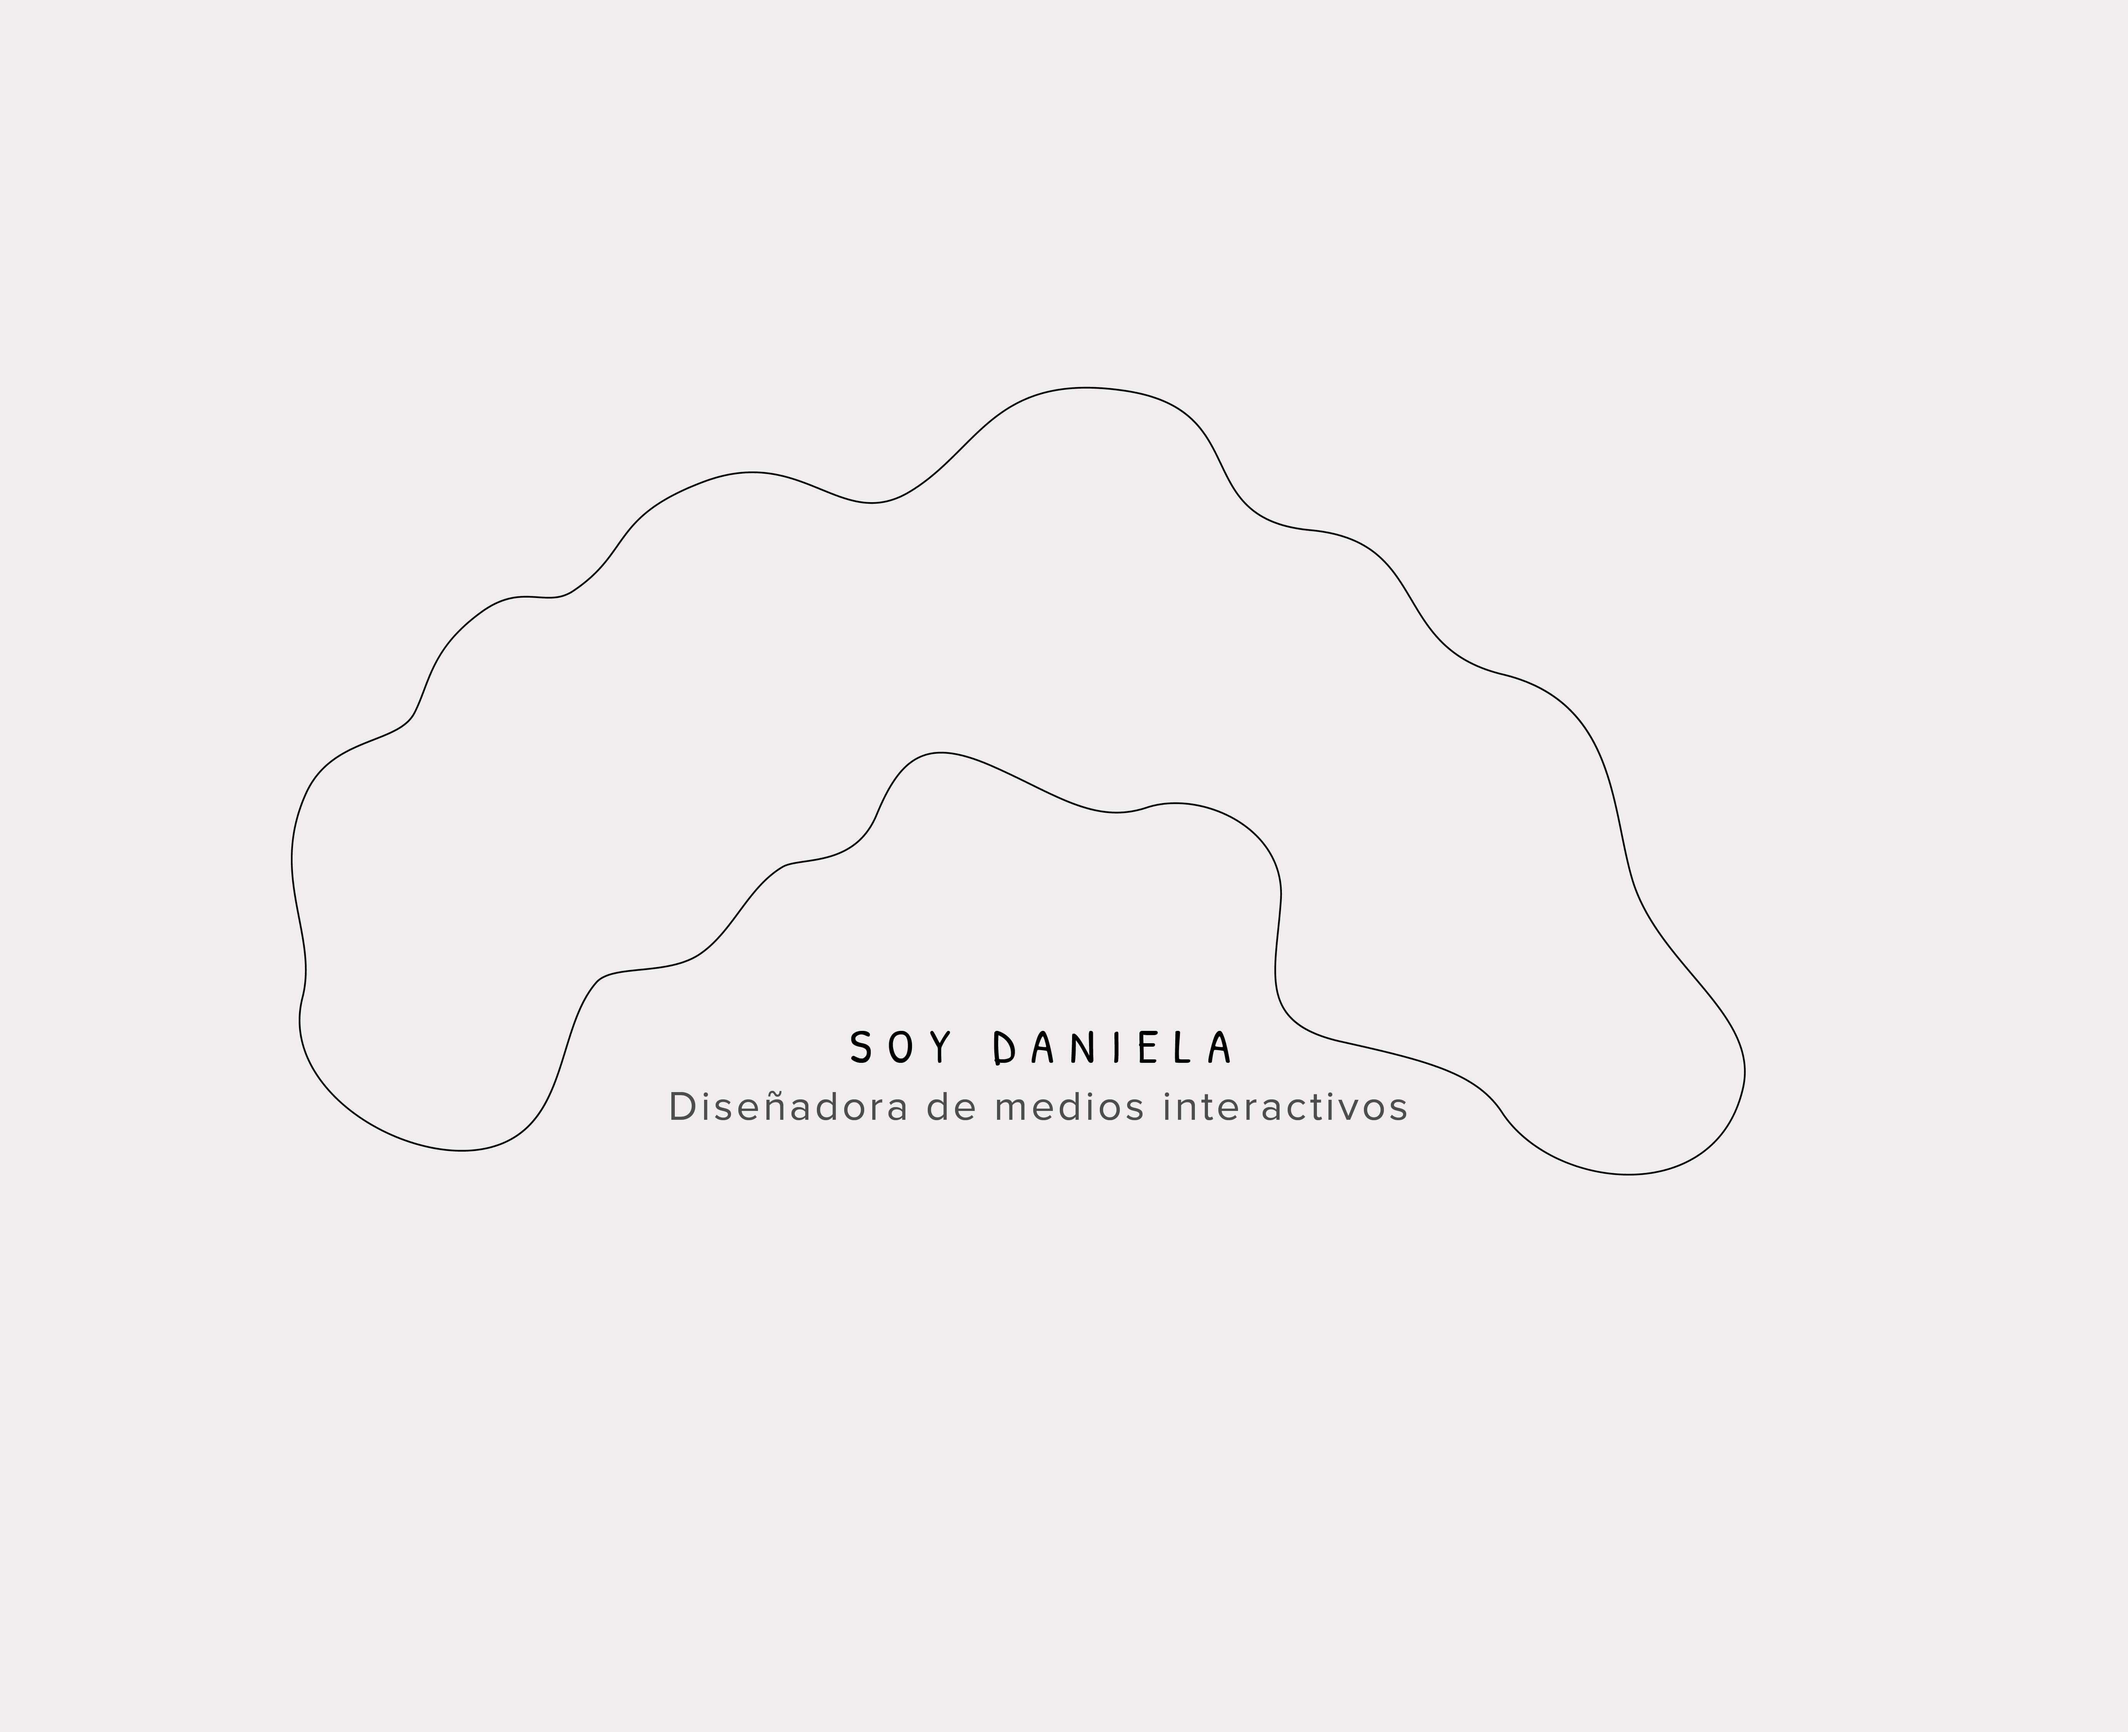
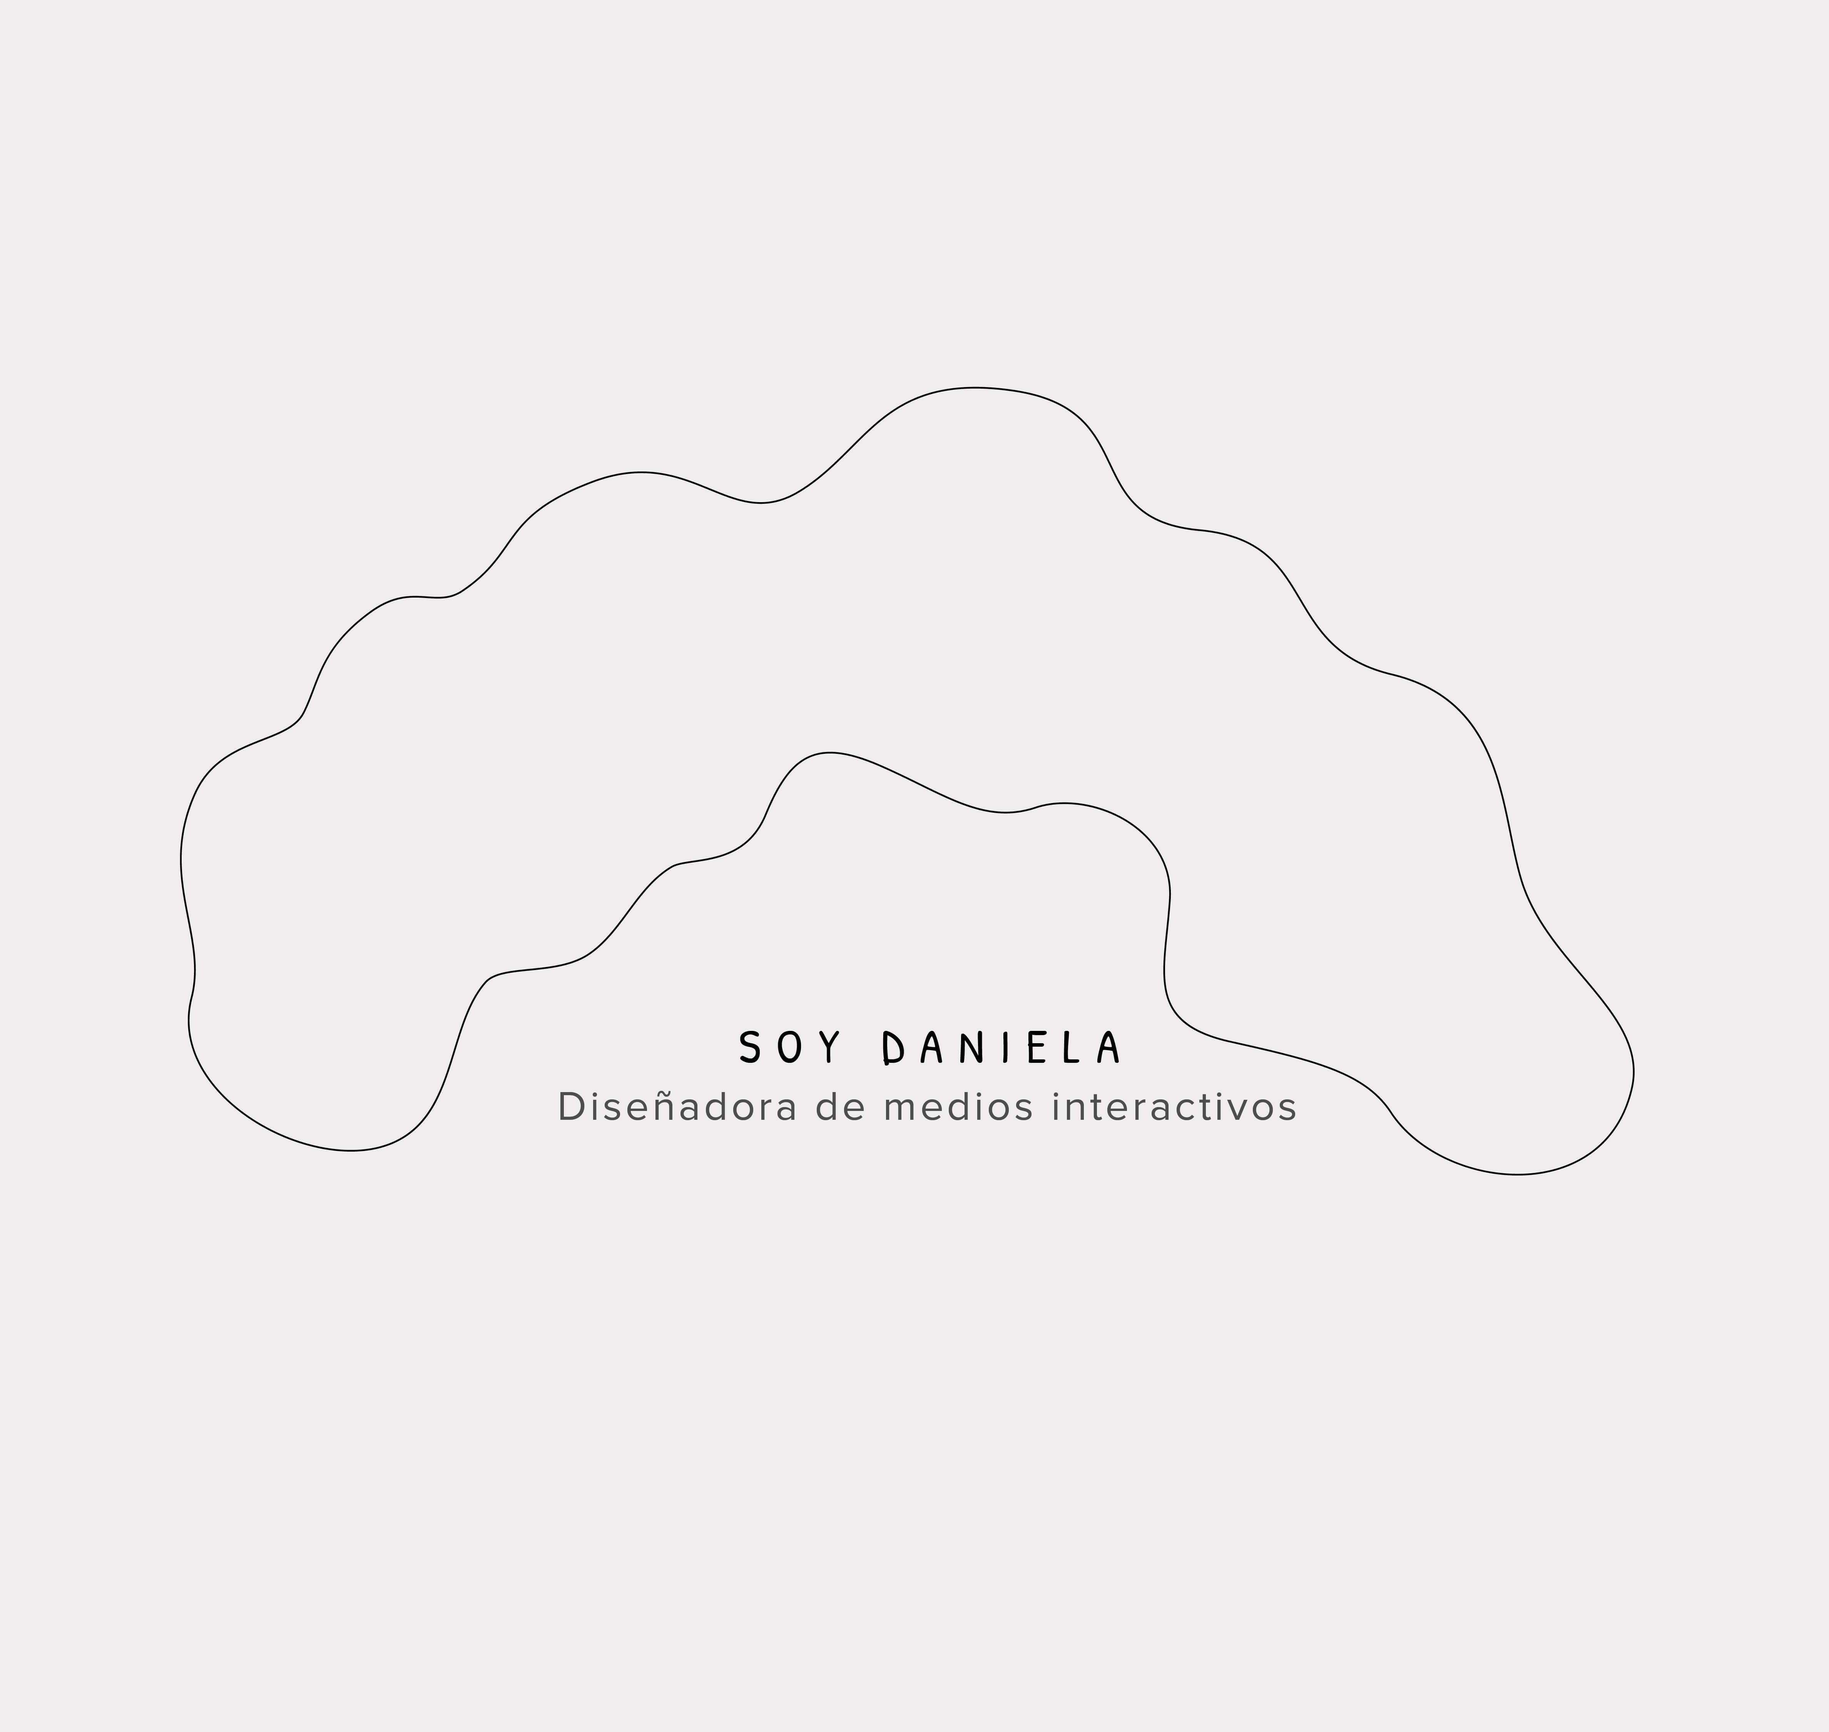
intnro

Changed region(s): [[0.3114, 0.591, 0.7163, 0.6532], [0.3114, 0.5288, 0.3426, 0.5599]]

diff --git a/css/estilos.css b/css/estilos.css
@@ -126,31 +126,54 @@ width: 80px;
 .intro{
     width: 100%;
     display: flex;
+    height: 600px;
+    background-color: #f1edef;
+    flex-direction: column;
+
 }
-.intro .foto {
- 
 
-
-
+.pelo{
+    position: absolute;
     display: flex;
-    margin: auto;
+    justify-content: center;
     align-items: center;
-    justify-content:space-around;
-    align-content: center;
+    width: 100%;
+    height: 500px;
 }
+
+.pelo img{
+    width: 500px;
+}
+
+.cara{
+    display: flex;
+    flex-direction: column;
+    align-items: center;
+margin: auto;
+    
+}
+
+.ojos{
+    margin-top: 90px;
+}
+
+.texto-intro h1{
+    font-size: 1.3em;
+    font-weight: 100;
+    letter-spacing: .2em;
+      text-align: center;
+      margin: 0 auto;
+
+    font-family: 'Patrick Hand SC', cursive;
+}
+.texto-intro p{
+    text-align: center;
+
+}
+
 .ojos{
     
     display: flex;
- justify-content: center;
-    align-items: center;
-
-    height: 100vh;
-  position: absolute;
-
-width: 300px;
-
-  text-align: center;
-    margin-top: 27px;
   
 }
 
@@ -169,7 +192,7 @@ background-image: url(../jpg/eye-36.png);
     
 }
     
-    .bola{
+.bola{
   width: 20px;
   height: 20px;
   margin-top: 9px;
@@ -185,26 +208,21 @@ background-image: url(../jpg/eye-36.png);
     
 .flecha{
 width: 100%;
-height: 490px;
-position: absolute;
+    height: 600px;
+    display: flex;
+    position: absolute;
+
+    justify-content: center;
+    align-items: flex-end;
     
-display: flex;
-align-items: flex-end;
-justify-content: center;
-
-
+    margin-top: -30px;
 }
-
 .flecha img{
     width: 20px;
  transition: .3s;
-    cursor: pointer;
 }
 
-.flecha img:hover img{
-filter: blur(3);
- 
-}
+
 
 /*Intro acaba*/
 
@@ -427,7 +445,7 @@ align-items: center;
  /*...................... celuco */
 
 @media(max-width:767px) {
-
+/*
   
   .intro .foto {
  
@@ -435,27 +453,19 @@ align-items: center;
     height:500px;
     background-position:center;
     background-size: cover; 
-  background-image: url("../jpg/inicio-37.jpg");
+background-color: #EFEDED;
 }
-    /*......................Empieza intro 
-
-
     
-.intro .foto-mobile {
-   
-  height: 100vh;
-    width: 100%;
-    background-position: center;
-    background-size: cover; 
-    background-image: url("../jpg/inicio-mobile.jpg");
-    display: flex;
-    margin: auto;
-        align-items: center;
-    justify-content:space-around;
-    align-content: center;
-}
+    .intro .foto img{
+        width: 500px;
+        margin-bottom: 60px;
+        position: absolute;
+    }
+    /*......................Empieza intro */
 
-*/
+
+
+
     
 
     
@@ -494,24 +504,28 @@ width: 180px;
     
     /*......................Empieza intro*/
     
-    .flecha{
-
-height: 690px;
-    }
+   
 
 
-
+/*
   .intro .foto {
  
 height: 700px;
 width:100%;
     background-position:center;
     background-size: cover; 
-    background-image: url("../jpg/inicio-37.jpg");
+   background-color: #EFEDED;
 
 }
+      .intro .foto img{
+        width: 600px;
+        margin-bottom: 60px;
+    }
     
-  
+    .texto-intro{
+        height: 200px;
+    }
+    */
       /*......................Acaba intro*/
     
     
@@ -602,6 +616,7 @@ width:100%;
 }
 }
  
+
  /*...................... Desktop */
 
 

diff --git a/index.html b/index.html
@@ -7,6 +7,8 @@
       <link rel="icon" type="image/png" href="jpg/favicon.ico">
     <link rel="stylesheet" href="css/estilos.css">
     <script src="https://kit.fontawesome.com/c2eaed5a6e.js" crossorigin="anonymous"></script>
+    
+    <link href="https://fonts.googleapis.com/css?family=Patrick+Hand+SC&display=swap" rel="stylesheet">
 </head>
 <body>
    
@@ -50,12 +52,18 @@
     
     <seccion class="intro">
         
-        <div class="flecha">
-        <a href="contacto.html"><img src="jpg/flecha.png" alt=""></a>
-        </div>
 
-        <div class="foto">
-            <div class="ojos">
+
+
+ 
+  
+        
+<div class="pelo">
+    <img src="jpg/pelo.png" alt="">
+</div>
+
+<div class="cara">
+    <div class="ojos">
                 
                 <div class="ojo">
                 <div class="bola"></div>
@@ -65,10 +73,25 @@
                 <div class="bola"></div>
                 </div>
        </div>
-        </div> 
-        
-       
+      
+<div class="texto-intro">
+            
+        <h1> 
+    SOY DANIELA
+    </h1>  
+    
+     <p>
+    Diseñadora de medios interactivos
+    </p>
+</div>
+     </div>
      
+     
+<div class="flecha">
+        <a href="contacto.html"><img src="jpg/flecha.png" alt=""></a>
+        </div>
+    
+
        
     </seccion>
     
